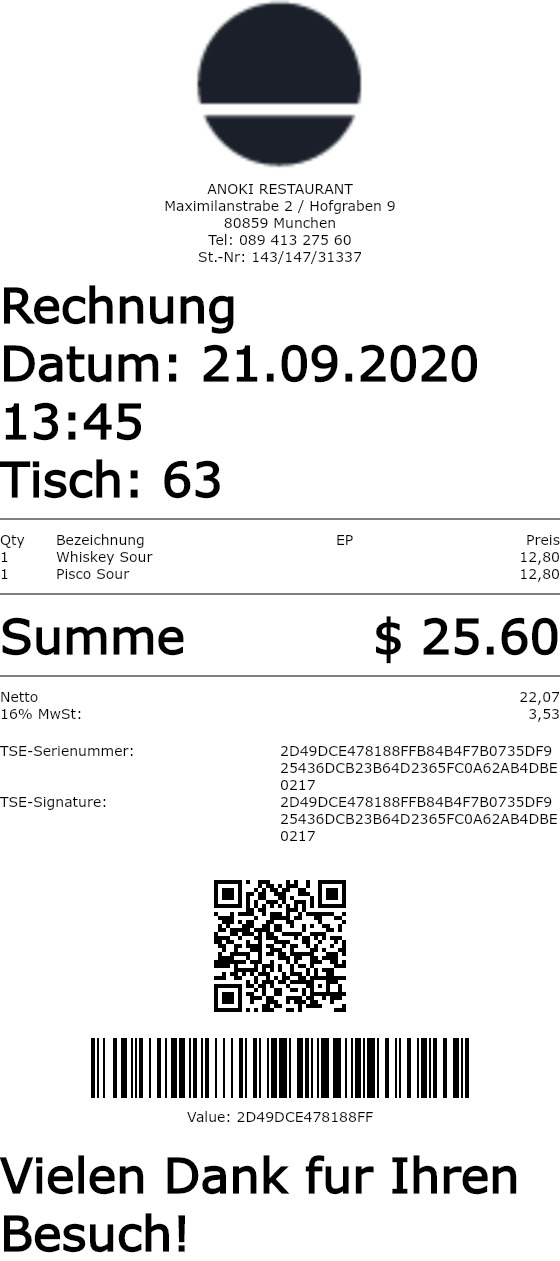
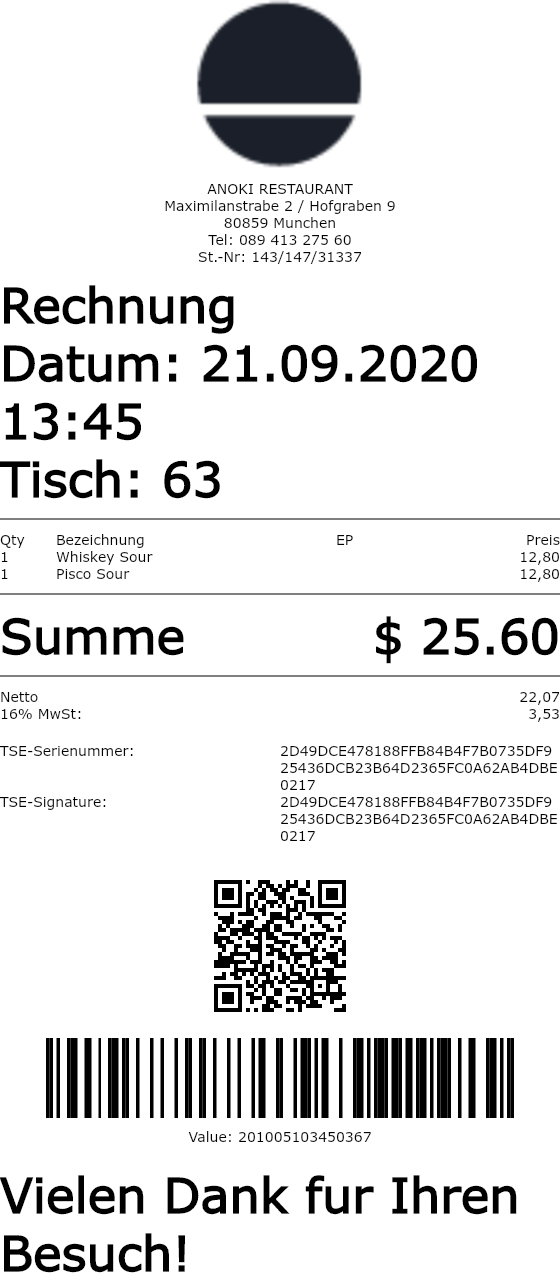
Update default options for printBarcode

diff --git a/example.js b/example.js
@@ -68,11 +68,12 @@ initCanvaskit().then(async (CanvaskitApi) => {
 
   canvaskitApi.alignCenter();
[1 lines of base64/hex data omitted]
-  await canvaskitApi.printBarcode('2D49DCE478188FF', {
-    height: 60, // default is 80
+  await canvaskitApi.printBarcode('201005103450367', {
+    height: 80, // default is 80
+    width: 3.5, // width of each bar in barcode
     displayValue: false, // display text value below the barcode or not, default is false
   });
-  canvaskitApi.println('Value: 2D49DCE478188FF');
+  canvaskitApi.println('Value: 201005103450367');
   canvaskitApi.newLine();
 
   canvaskitApi.setTextQuadArea();

diff --git a/src/canvaskit-api.js b/src/canvaskit-api.js
@@ -209,11 +209,12 @@ class CanvaskitApi {
   }
 
   printBarcode(text, opts = {}) {
-    const {height = 80, displayValue = false} = opts;
-
     const canvas = createCanvas();
     JsBarcode(canvas, text, {
-      height, displayValue
+      height: opts.height || 80,
+      width: opts.width || 3.5,
+      displayValue: opts.displayValue || false,
+      ...opts,
     });
 
     const barcodeImageBuffer = canvas.toBuffer('image/png');
